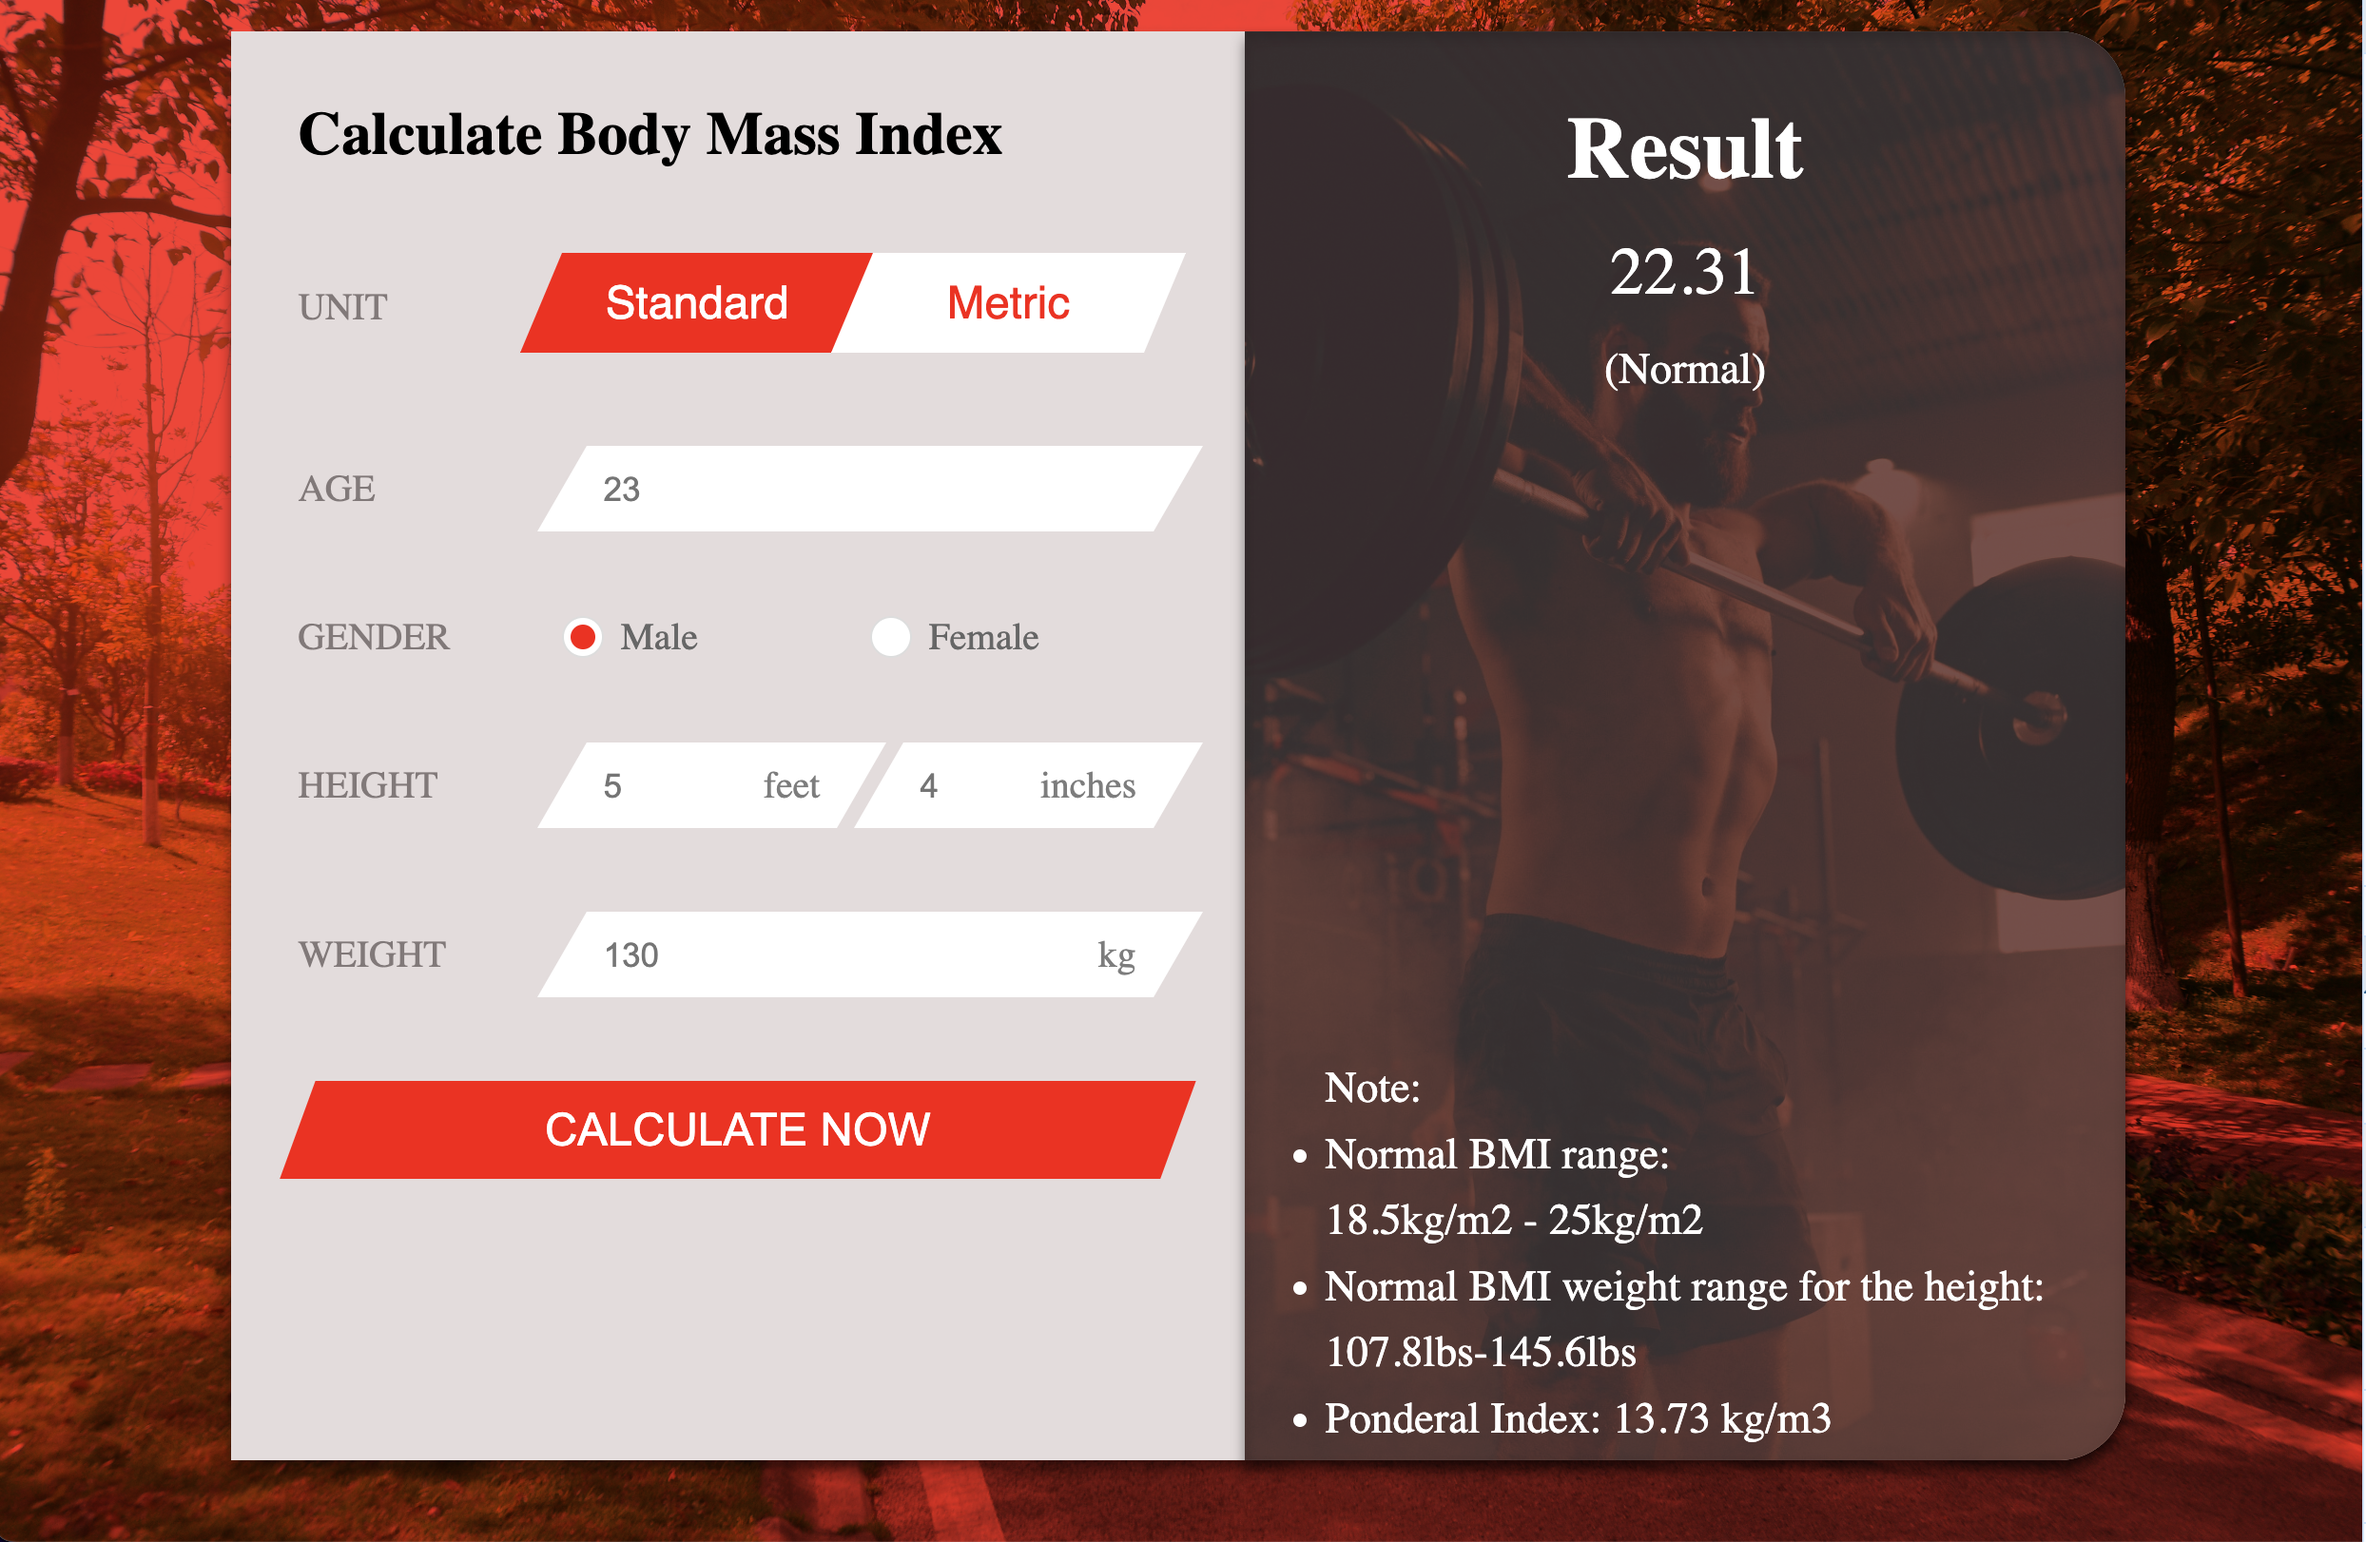
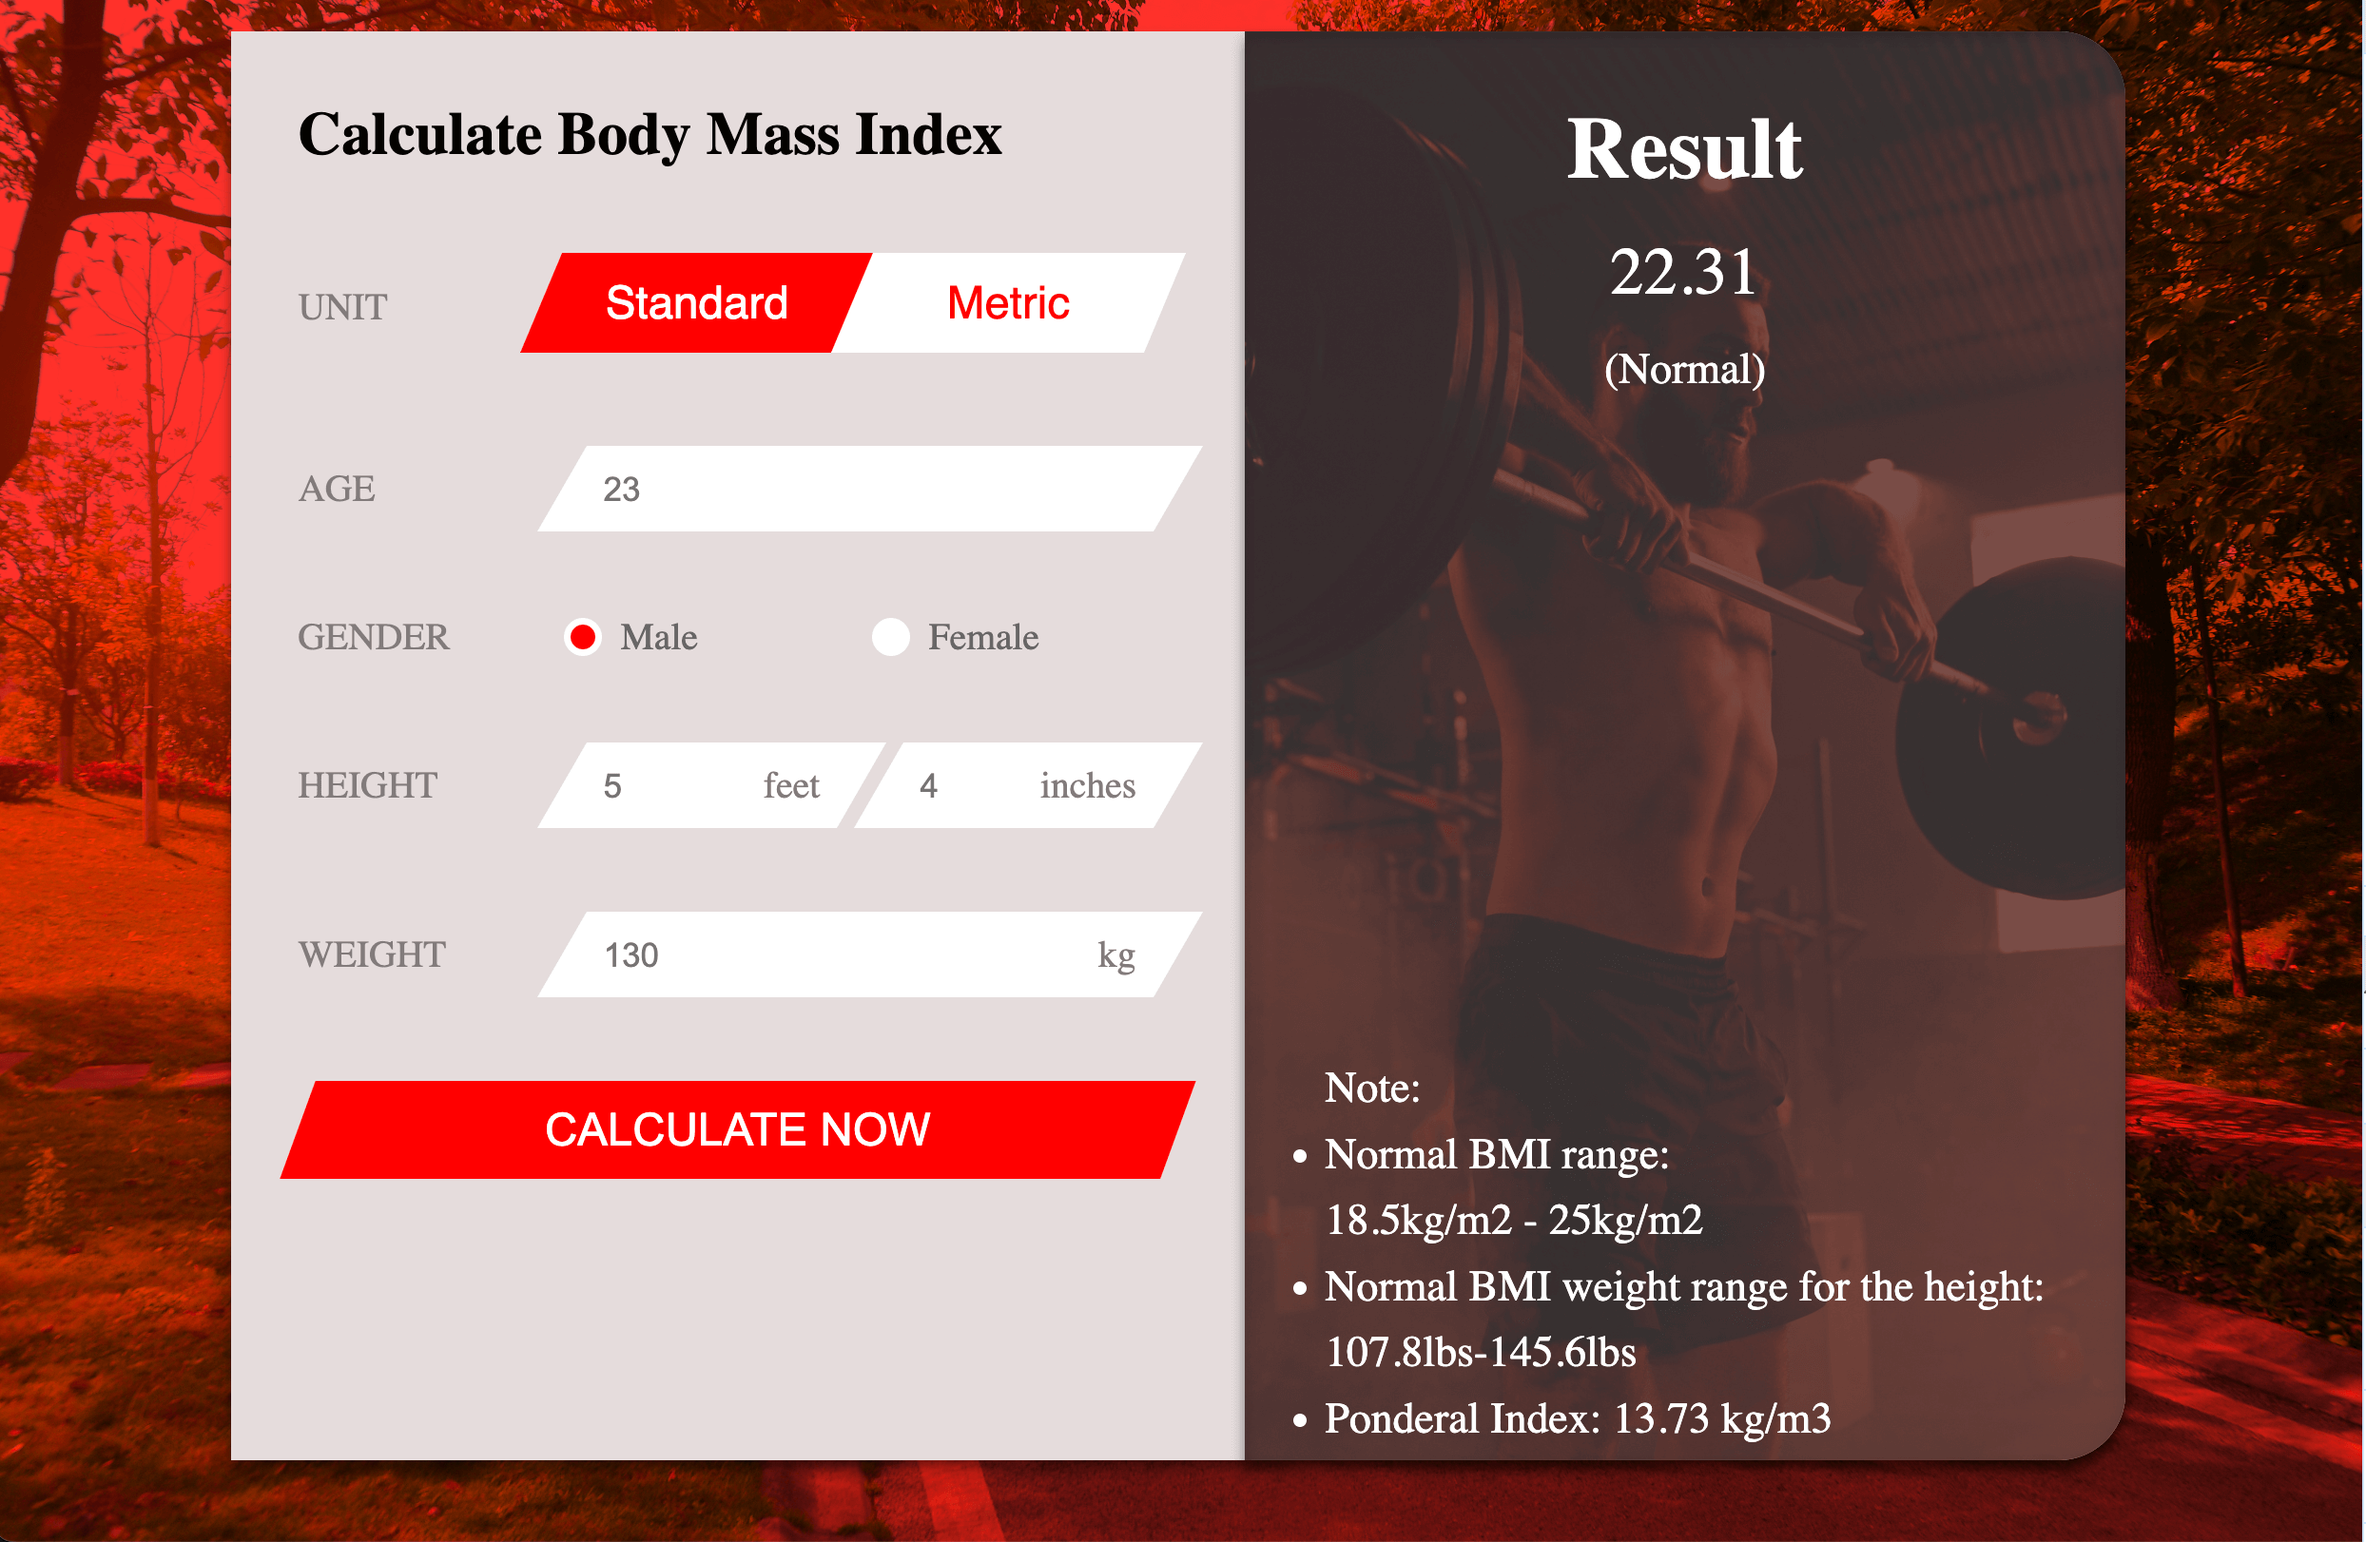
changed image sizes and fixed responsiveness

diff --git a/styles/bmi-index.css b/styles/bmi-index.css
@@ -122,7 +122,7 @@ body {
 }
 
 .bmi-card-right {
-  background-image: url("../assets/card-2.jpg");
+  background-image: url("../assets/card-2.png");
   background-repeat: no-repeat;
   background-position: center;
   background-size: cover;
@@ -335,6 +335,9 @@ body {
   }
   .note {
     margin-bottom: 2rem;
+  }
+  .input-wrapper .label span {
+    font-size: .7rem;
   }
 }
 
